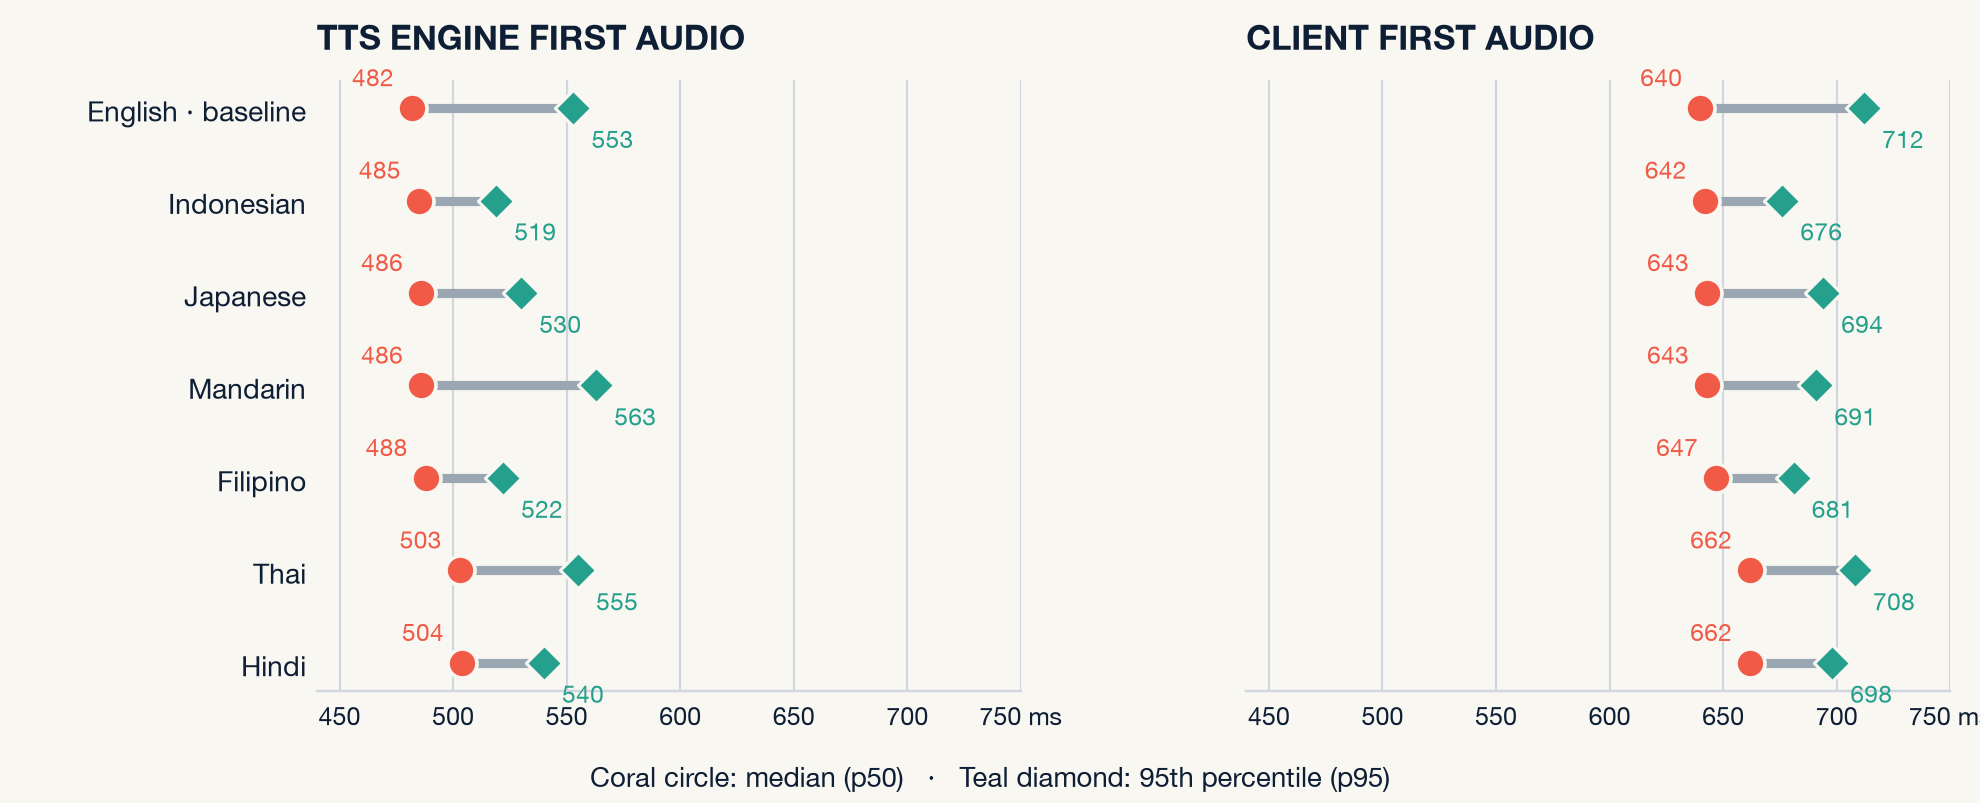
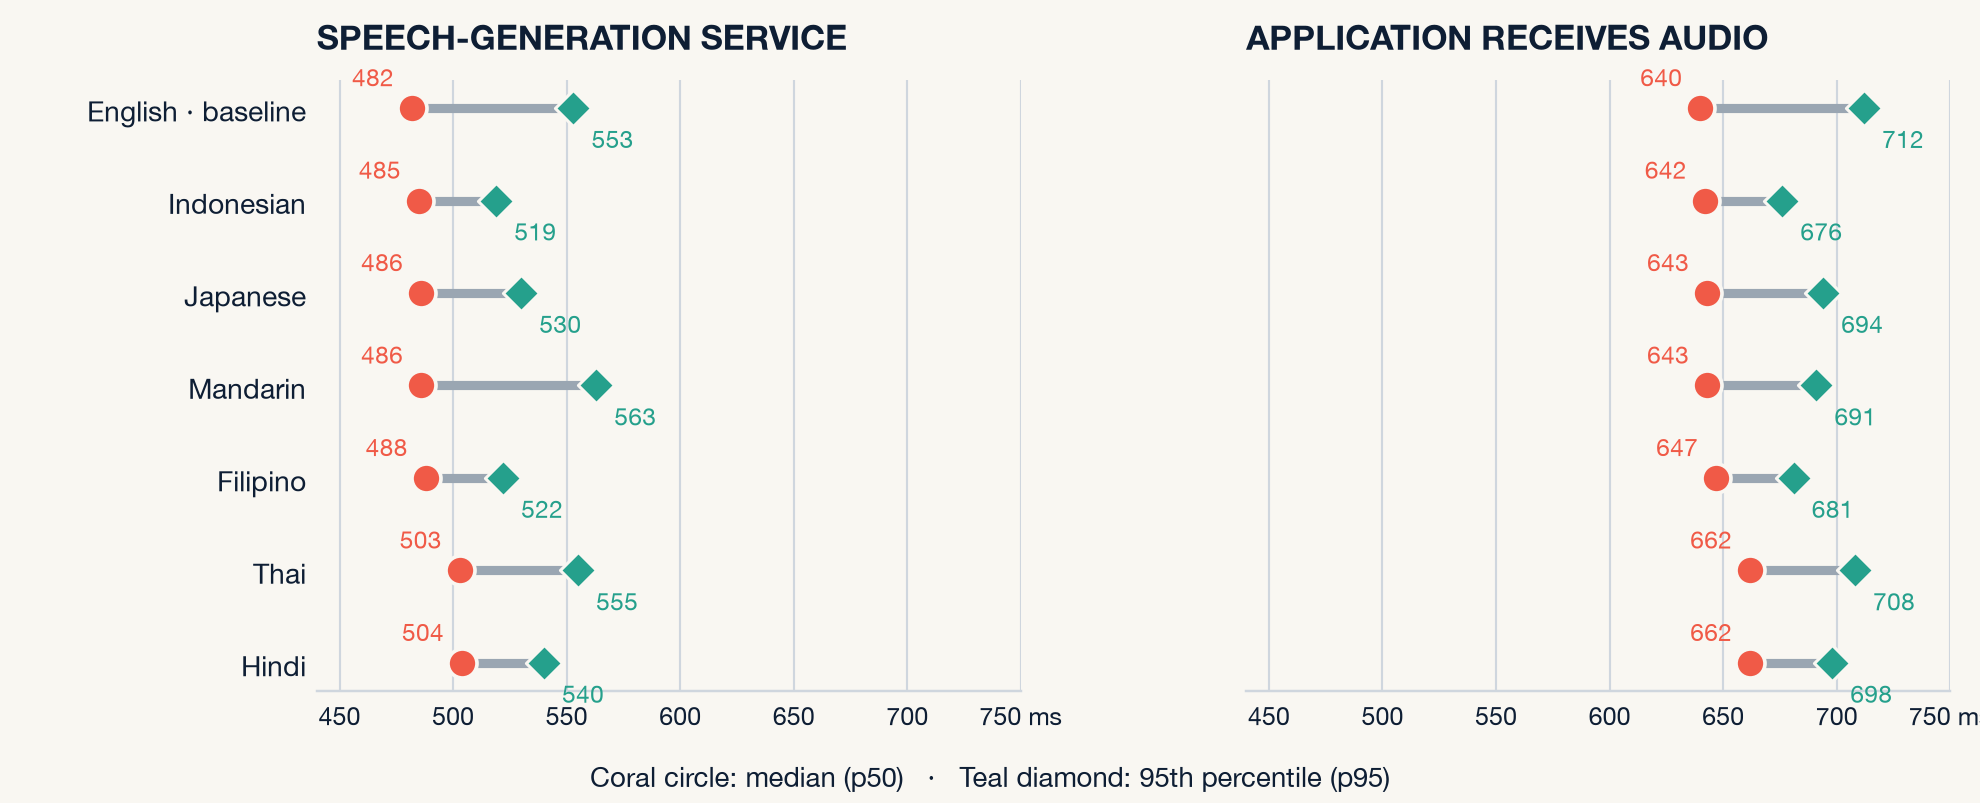
Replace TTS shorthand in talk chart

Changed region(s): [[0.6162, 0.0311, 0.8934, 0.0623], [0.154, 0.0311, 0.4313, 0.0623]]

diff --git a/docs/talks/cohere-multilingual-voice/charts/render_charts.py b/docs/talks/cohere-multilingual-voice/charts/render_charts.py
@@ -260,8 +260,8 @@ def render_tts_latency() -> None:
         ax.spines["bottom"].set_color(GRID)
         ax.set_title(title, loc="left", fontsize=11, color=INK, fontweight="bold", pad=10)
 
-    percentile_plot(engine_ax, 1, 2, "TTS ENGINE FIRST AUDIO")
-    percentile_plot(client_ax, 3, 4, "CLIENT FIRST AUDIO")
+    percentile_plot(engine_ax, 1, 2, "SPEECH-GENERATION SERVICE")
+    percentile_plot(client_ax, 3, 4, "APPLICATION RECEIVES AUDIO")
     client_ax.set_yticklabels([])
 
     fig.text(
